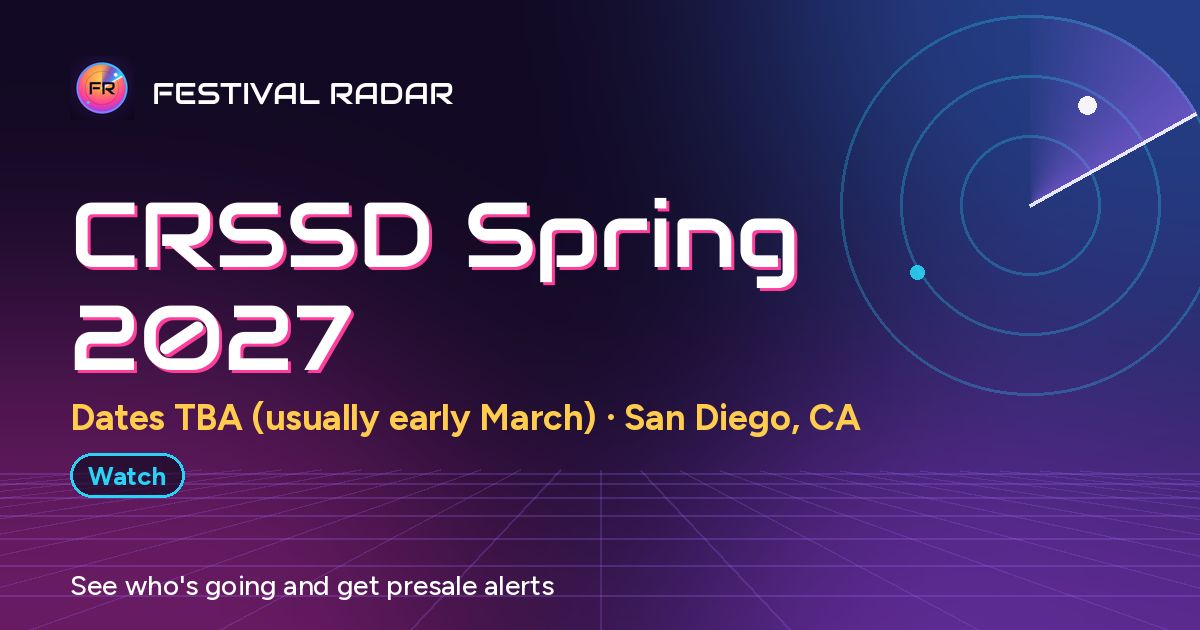
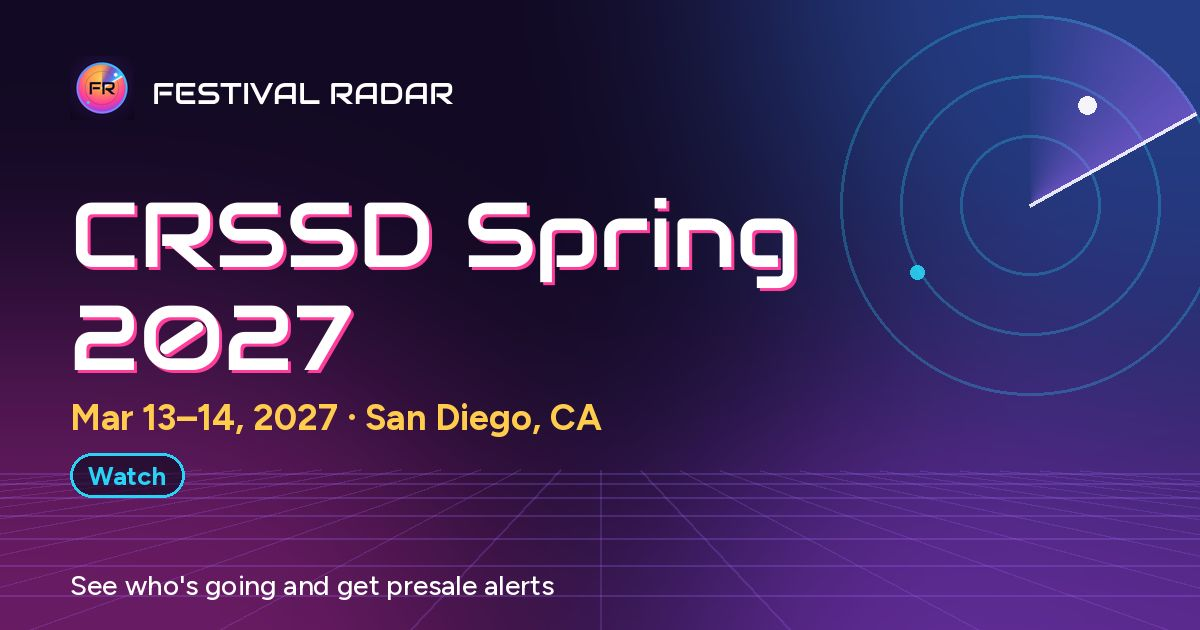
Festival refresh Nov 12, 2026
Claude-Session: https://claude.ai/code/session_01SGEQbjnHDGCR8WeiQfnaLf

Changed region(s): [[0.0617, 0.6333, 0.74, 0.6937]]

diff --git a/index.html b/index.html
@@ -3916,7 +3916,7 @@ const pinSvg = () => { const s = mk('span', 'ch-pin'); s.innerHTML = '<svg width
 
 </script>
 <script id="festival-data" type="application/json">{
-"updated": "Nov 9, 2026",
+"updated": "Nov 12, 2026",
 "festivals": [
 {
 "artists": "Lineup TBA",
@@ -4141,19 +4141,19 @@ const pinSvg = () => { const s = mk('span', 'ch-pin'); s.innerHTML = '<svg width
 {
 "artists": "Lineup TBA",
 "city": "San Diego, CA",
-"dates": "Dates TBA (usually early March)",
+"dates": "Mar 13–14, 2027",
 "distance": "110 mi",
-"end": "",
+"end": "2027-03-14",
 "festival": "CRSSD Spring 2027",
 "genre": "House / techno",
-"link": "https://crssdfest.com",
+"link": "https://www.crssdfest.com/",
 "miles": 110,
 "next_sale": "",
-"next_sale_label": "Watch for alumni presale (was early December last cycle)",
-"note": "21+. Dates not announced yet. Last cycle: alumni presale Tue Dec 9 at 12pm PT, community presale Dec 10, general sale Dec 10 at 2pm PT.",
+"next_sale_label": "Dates set; watch for alumni presale (was early December last cycle)",
+"note": "Waterfront Park, San Diego, 21+. Dates on the official site; lineup and sale times not out yet (lineup first-look sign-up on the site). Last cycle: alumni presale Tue Dec 9 at 12pm PT, community presale Dec 10, general sale Dec 10 at 2pm PT.",
 "price_from": "",
 "section": "Local",
-"start": "",
+"start": "2027-03-13",
 "status": "Watch",
 "id": "crssd-spring-2027",
 "expected_sale": "2026-12-08",
@@ -4537,29 +4537,6 @@ const pinSvg = () => { const s = mk('span', 'ch-pin'); s.innerHTML = '<svg width
 "status": "On sale",
 "id": "show-black-book-records-presents-untitled-2026-12-10",
 "ticket_link": "https://link.dice.fm/Y8dcdfff0c14",
-"lat": 34.0522,
-"lng": -118.2437
-},
-{
-"artists": "Bonobo",
-"city": "Los Angeles, CA",
-"dates": "Wed Nov 11, 2026",
-"distance": "15 mi",
-"end": "2026-11-11",
-"festival": "Bonobo at The Wiltern",
-"genre": "Downtempo / electronic",
-"kind": "show",
-"link": "https://www.livenation.com/venue/KovZpZAEAl6A/the-wiltern-events",
-"miles": 15,
-"next_sale": "",
-"next_sale_label": "Tickets on sale",
-"note": "The Wiltern, Koreatown. KCRW presents Distance in Static Live. Second night Thu Nov 12.",
-"price_from": "",
-"section": "Local",
-"start": "2026-11-11",
-"status": "On sale",
-"id": "show-bonobo-at-the-wiltern-2026-11-11",
-"ticket_link": "https://www.ticketmaster.com/kcrw-presents-bonobo-distance-in-static-los-angeles-california-11-11-2026/event/090064C3CC0645B7",
 "lat": 34.0522,
 "lng": -118.2437
 },
@@ -5880,6 +5857,29 @@ const pinSvg = () => { const s = mk('span', 'ch-pin'); s.innerHTML = '<svg width
 "lng": -118.2437,
 "miles": 16,
 "distance": "16 mi"
+},
+{
+"artists": "Lineup TBA",
+"city": "Los Angeles, CA",
+"dates": "Oct 2–3, 2027",
+"distance": "17 mi",
+"end": "2027-10-03",
+"festival": "CORE Los Angeles 2027",
+"genre": "House / techno",
+"link": "https://www.core.world/",
+"miles": 17,
+"next_sale": "",
+"next_sale_label": "Presale reported Nov 12 at 12pm PT; general sale reported Nov 20 at 12pm PT",
+"note": "Tomorrowland and Insomniac at LA State Historic Park, second LA edition. Press reports a presale for preregistered fans Nov 12 at 12pm PT and general sale Nov 20 at 12pm PT, 2-day GA from $159.99 and VIP from $309.99 incl. fees, $9.99 layaway deposit. Not yet confirmed on the official site. Lineup not out yet.",
+"price_from": "$159.99",
+"section": "Local",
+"start": "2027-10-02",
+"status": "Presale soon",
+"id": "core-los-angeles-2027",
+"expected_sale": "2026-11-20",
+"ticket_link": "",
+"lat": 34.0656,
+"lng": -118.2297
 }
 ]
 }</script>

diff --git a/f/crssd-spring-2027.html b/f/crssd-spring-2027.html
@@ -4,20 +4,20 @@
 <meta charset="utf-8">
 <meta name="viewport" content="width=device-width, initial-scale=1">
 <title>CRSSD Spring 2027 on Festival Radar</title>
-<meta name="description" content="Dates TBA (usually early March) · San Diego, CA. See who&#x27;s going and get presale alerts on Festival Radar.">
+<meta name="description" content="Mar 13–14, 2027 · San Diego, CA. See who&#x27;s going and get presale alerts on Festival Radar.">
 <meta property="og:type" content="website">
 <meta property="og:site_name" content="Festival Radar">
 <meta property="og:title" content="CRSSD Spring 2027">
-<meta property="og:description" content="Dates TBA (usually early March) · San Diego, CA. See who&#x27;s going and get presale alerts on Festival Radar.">
+<meta property="og:description" content="Mar 13–14, 2027 · San Diego, CA. See who&#x27;s going and get presale alerts on Festival Radar.">
 <meta property="og:url" content="https://deftspyder.github.io/festival-radar/f/crssd-spring-2027.html">
-<meta property="og:image" content="https://deftspyder.github.io/festival-radar/f/img/crssd-spring-2027.jpg?v=7ef1114b">
+<meta property="og:image" content="https://deftspyder.github.io/festival-radar/f/img/crssd-spring-2027.jpg?v=57ce91fe">
 <meta property="og:image:width" content="1200">
 <meta property="og:image:height" content="630">
-<meta property="og:image:alt" content="CRSSD Spring 2027, Dates TBA (usually early March) · San Diego, CA">
+<meta property="og:image:alt" content="CRSSD Spring 2027, Mar 13–14, 2027 · San Diego, CA">
 <meta name="twitter:card" content="summary_large_image">
 <meta name="twitter:title" content="CRSSD Spring 2027">
-<meta name="twitter:description" content="Dates TBA (usually early March) · San Diego, CA. See who&#x27;s going and get presale alerts on Festival Radar.">
-<meta name="twitter:image" content="https://deftspyder.github.io/festival-radar/f/img/crssd-spring-2027.jpg?v=7ef1114b">
+<meta name="twitter:description" content="Mar 13–14, 2027 · San Diego, CA. See who&#x27;s going and get presale alerts on Festival Radar.">
+<meta name="twitter:image" content="https://deftspyder.github.io/festival-radar/f/img/crssd-spring-2027.jpg?v=57ce91fe">
 <meta name="theme-color" content="#120a24">
 <link rel="icon" href="../icons/favicon.svg" type="image/svg+xml">
 <link rel="canonical" href="https://deftspyder.github.io/festival-radar/f/crssd-spring-2027.html">
@@ -29,7 +29,7 @@ a { display: inline-block; margin-top: 18px; padding: 12px 22px; border-radius: 
 </head>
 <body>
 <main>
-<img src="img/crssd-spring-2027.jpg?v=7ef1114b" alt="CRSSD Spring 2027, Dates TBA (usually early March) · San Diego, CA">
+<img src="img/crssd-spring-2027.jpg?v=57ce91fe" alt="CRSSD Spring 2027, Mar 13–14, 2027 · San Diego, CA">
 <p><a id="go" href="../?card=crssd-spring-2027#festivals">Open CRSSD Spring 2027 on Festival Radar</a></p>
 </main>
 <script>

diff --git a/f/core-los-angeles-2027.html b/f/core-los-angeles-2027.html
@@ -1,0 +1,46 @@
+<!doctype html>
+<html lang="en">
+<head>
+<meta charset="utf-8">
+<meta name="viewport" content="width=device-width, initial-scale=1">
+<title>CORE Los Angeles 2027 on Festival Radar</title>
+<meta name="description" content="Oct 2–3, 2027 · Los Angeles, CA. See who&#x27;s going and get presale alerts on Festival Radar.">
+<meta property="og:type" content="website">
+<meta property="og:site_name" content="Festival Radar">
+<meta property="og:title" content="CORE Los Angeles 2027">
+<meta property="og:description" content="Oct 2–3, 2027 · Los Angeles, CA. See who&#x27;s going and get presale alerts on Festival Radar.">
+<meta property="og:url" content="https://deftspyder.github.io/festival-radar/f/core-los-angeles-2027.html">
+<meta property="og:image" content="https://deftspyder.github.io/festival-radar/f/img/core-los-angeles-2027.jpg?v=4e4266a2">
+<meta property="og:image:width" content="1200">
+<meta property="og:image:height" content="630">
+<meta property="og:image:alt" content="CORE Los Angeles 2027, Oct 2–3, 2027 · Los Angeles, CA">
+<meta name="twitter:card" content="summary_large_image">
+<meta name="twitter:title" content="CORE Los Angeles 2027">
+<meta name="twitter:description" content="Oct 2–3, 2027 · Los Angeles, CA. See who&#x27;s going and get presale alerts on Festival Radar.">
+<meta name="twitter:image" content="https://deftspyder.github.io/festival-radar/f/img/core-los-angeles-2027.jpg?v=4e4266a2">
+<meta name="theme-color" content="#120a24">
+<link rel="icon" href="../icons/favicon.svg" type="image/svg+xml">
+<link rel="canonical" href="https://deftspyder.github.io/festival-radar/f/core-los-angeles-2027.html">
+<style>
+body { margin: 0; min-height: 100vh; display: grid; place-items: center; background: #120a24; color: #f3ecff; font: 16px/1.5 system-ui, sans-serif; text-align: center; padding: 24px; box-sizing: border-box; }
+img { width: min(560px, 100%); height: auto; border-radius: 14px; }
+a { display: inline-block; margin-top: 18px; padding: 12px 22px; border-radius: 999px; background: linear-gradient(90deg, #ff3d9a, #a86bff); color: #fff; font-weight: 700; text-decoration: none; }
+</style>
+</head>
+<body>
+<main>
+<img src="img/core-los-angeles-2027.jpg?v=4e4266a2" alt="CORE Los Angeles 2027, Oct 2–3, 2027 · Los Angeles, CA">
+<p><a id="go" href="../?card=core-los-angeles-2027#festivals">Open CORE Los Angeles 2027 on Festival Radar</a></p>
+</main>
+<script>
+(function () {
+  var u = '../?card=core-los-angeles-2027', i = null;
+  try { i = new URLSearchParams(location.search).get('i'); } catch (e) {}
+  if (i && /^[a-f0-9]{8,32}$/i.test(i)) u += '&invite=' + i.toLowerCase();
+  u += '#festivals';
+  document.getElementById('go').href = u;
+  location.replace(u);
+})();
+</script>
+</body>
+</html>
